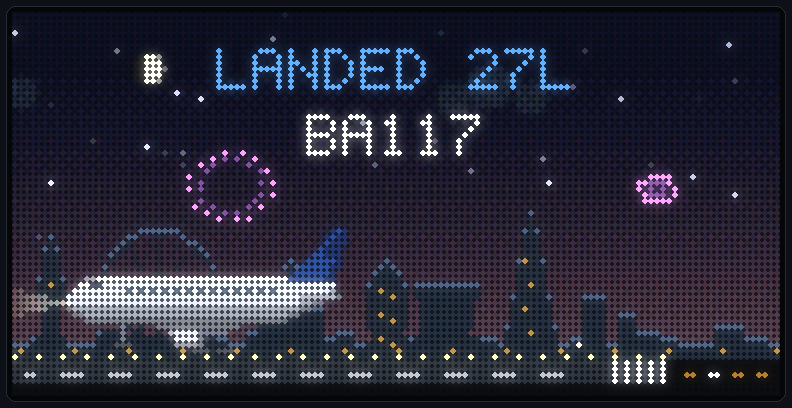
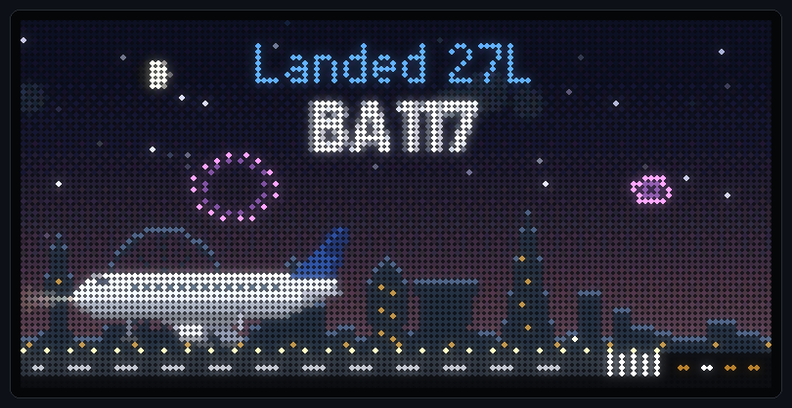
7.0.0: docs, screenshots, changelog

diff --git a/CHANGELOG.md b/CHANGELOG.md
@@ -7,7 +7,7 @@ web page (`firmware.bin`) keep your settings. Release files are on the
 There is no 3.0: the features planned for it (living sky, holding stacks,
 phone alerts) were finished alongside 4.0's and shipped together as 4.0.0.
 
-## 7.0.0 (in progress)
+## 7.0.0 (20 Oct 2026)
 
 The look: new type, one design across the screens, better aircraft.
 
